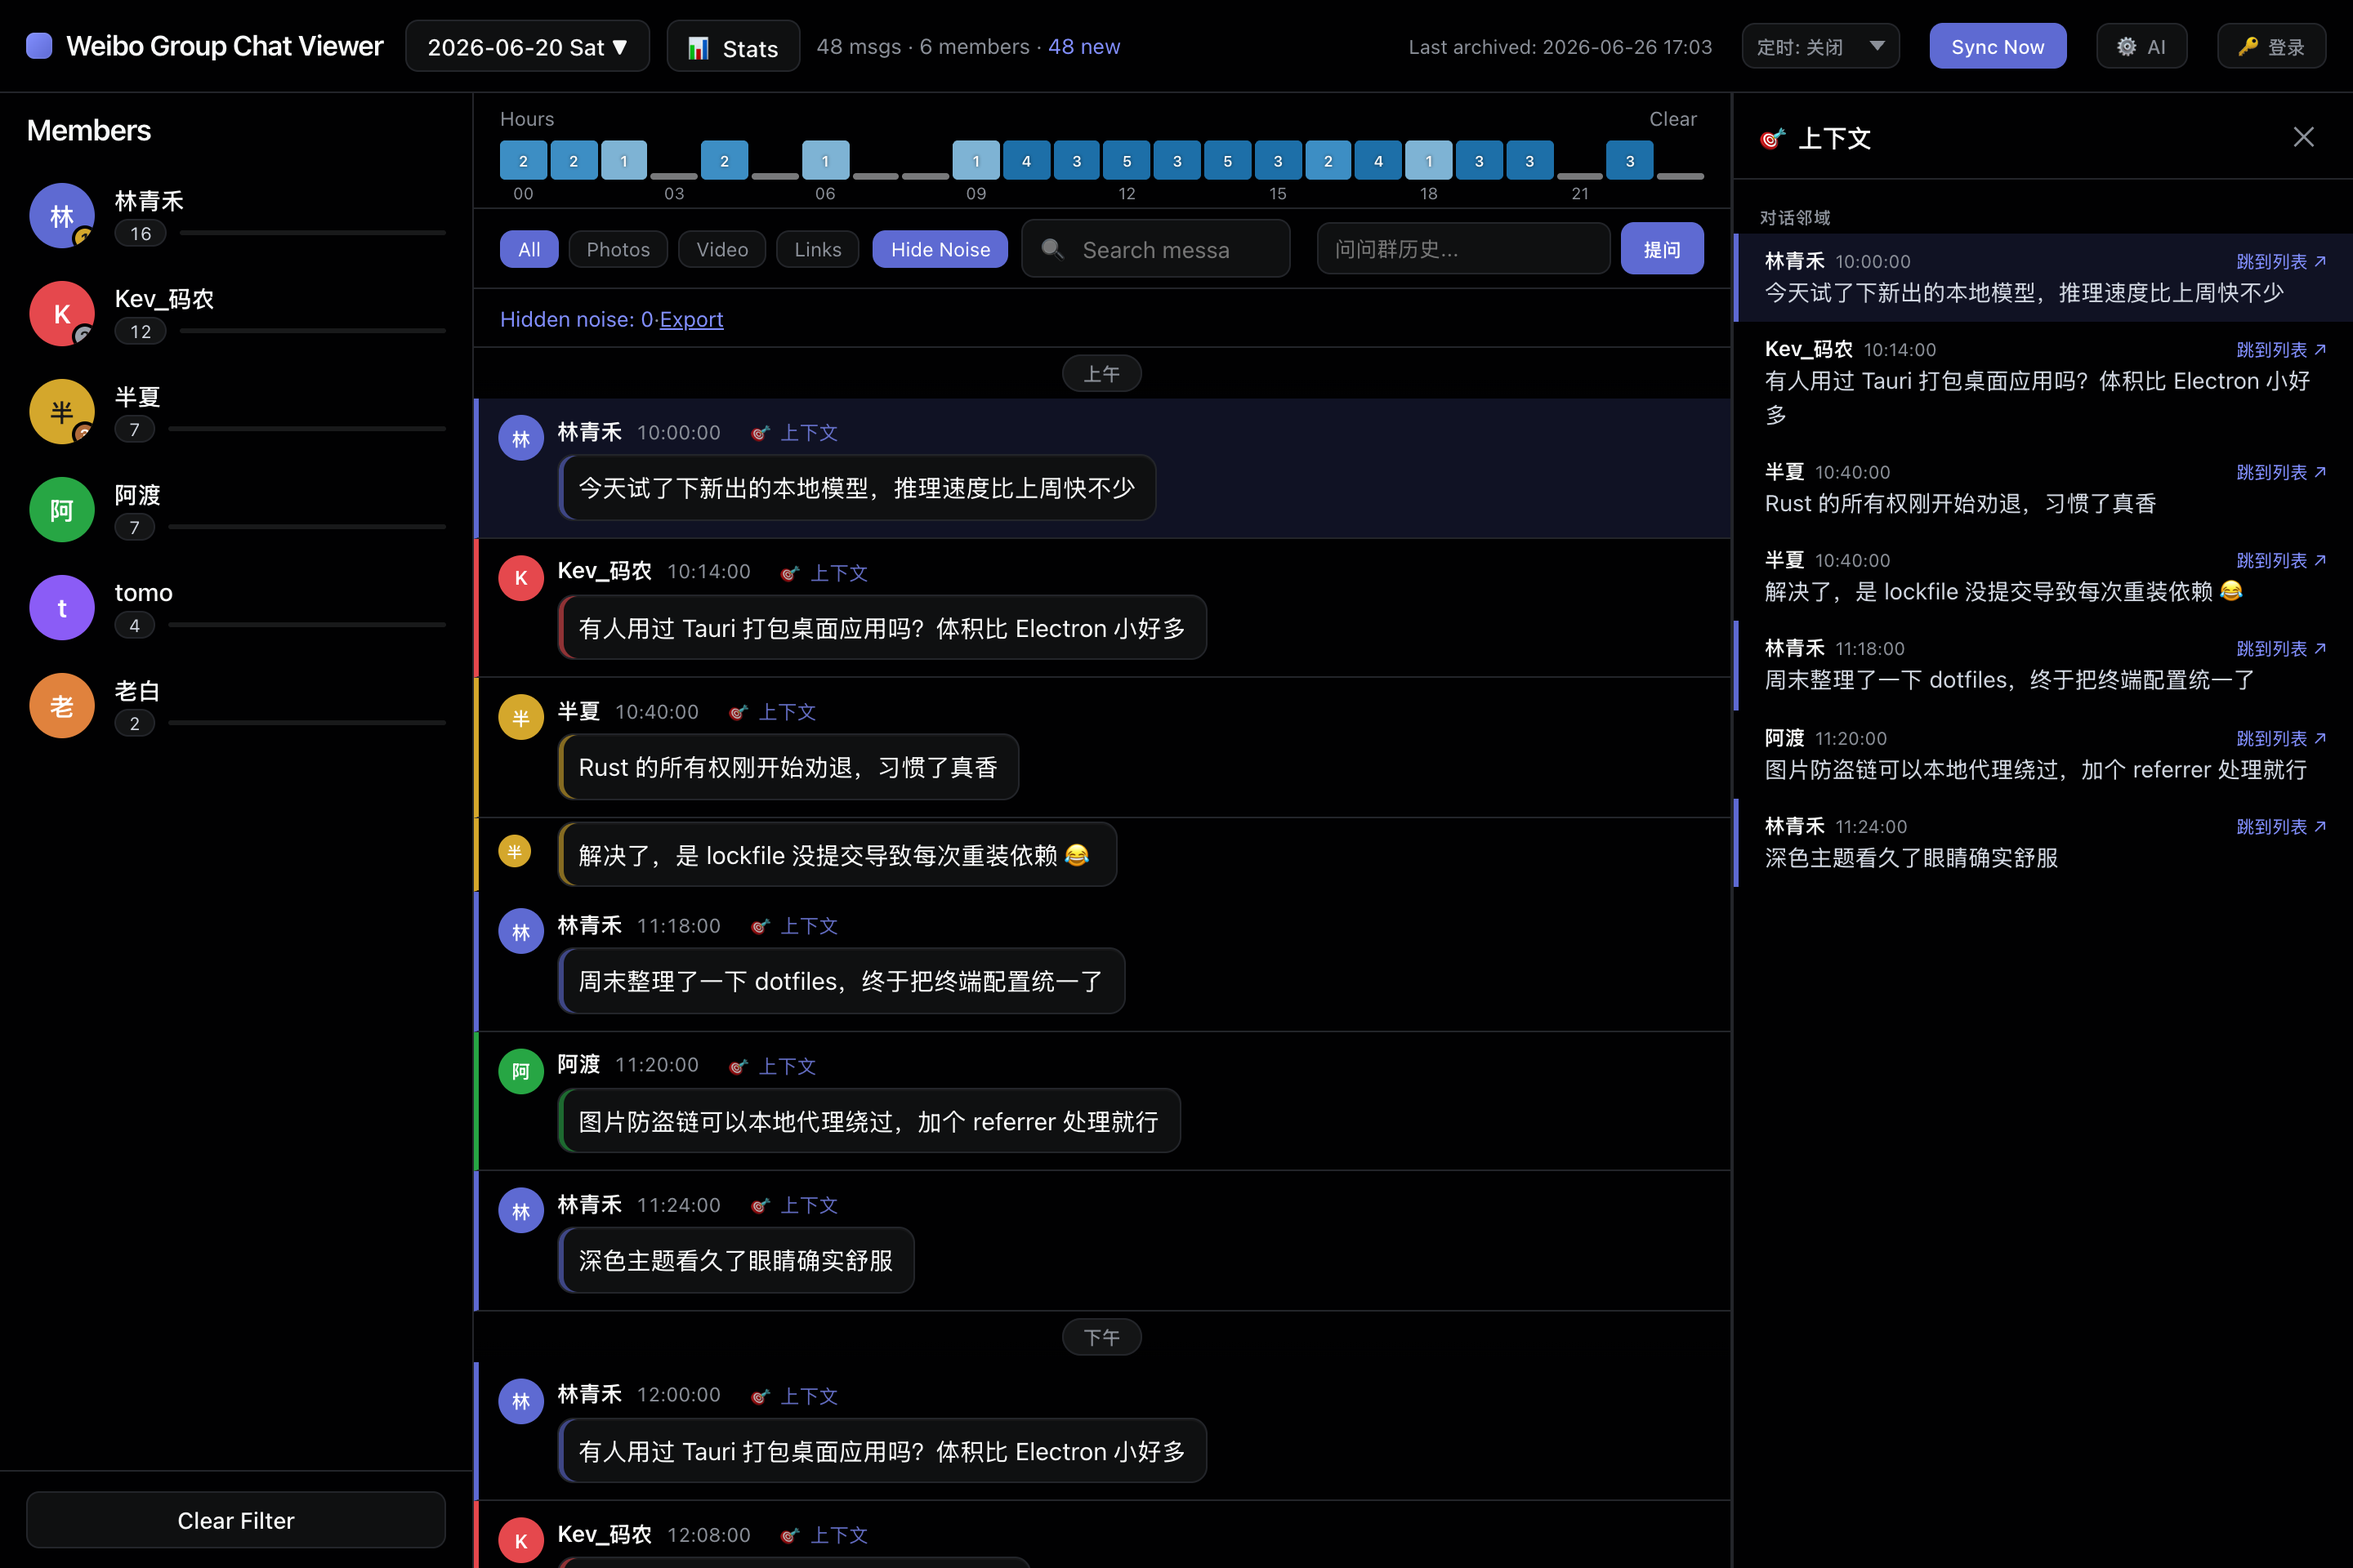
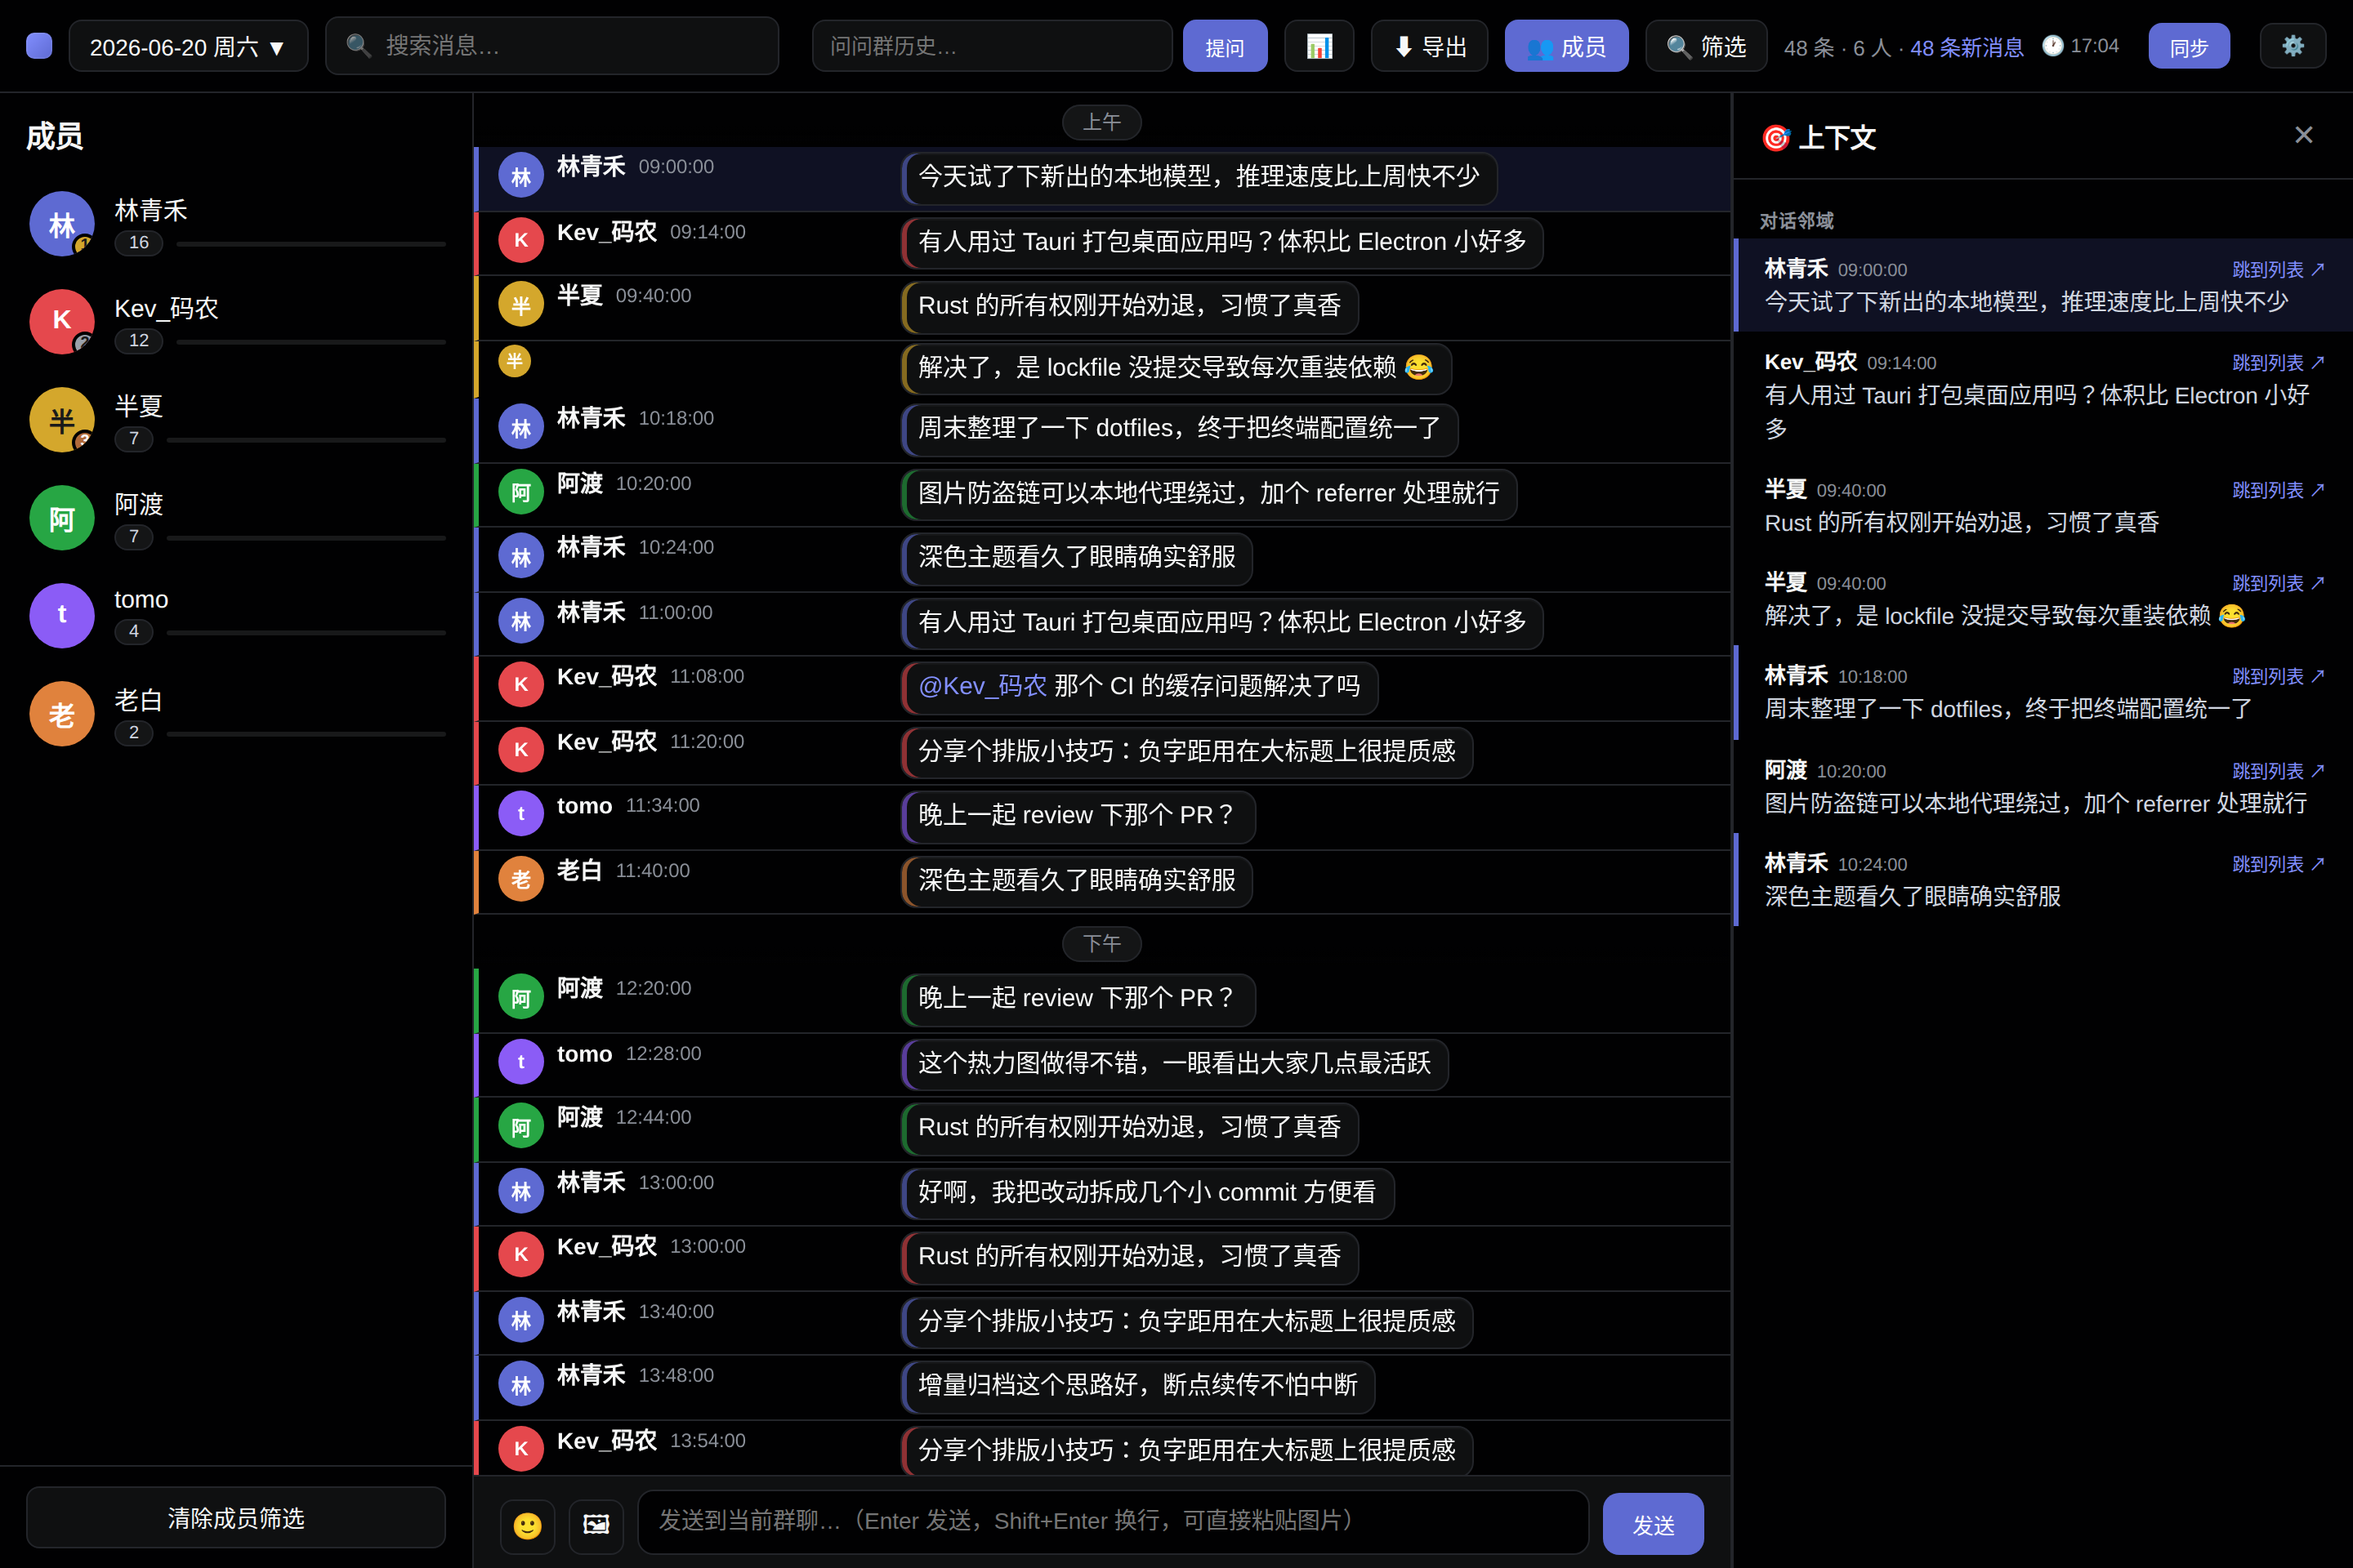
docs: 重录演示截图与 demo.gif,对齐 09-08 布局改动
- 截图/GIF 反映可折叠成员侧栏(ecbd97a/PR#39)与减半行高后的界面
- 修 gen-demo-gif.js 过期选择器:上下文入口已从常驻 .msg-ctx-link 改为
  hover 的 .msg-ctx-btn,只点旧选择器时 GIF 的上下文面板场景静默失效
- 演示数据补 state 文件(groupId)使发送输入框正常显示,不再出现
  「先点同步」提示条;拦截 /api/auth-status 压掉无 cookie 环境的
  「登录已失效」红条(均只在截图进程内,不改产品代码,跑完即清)

diff --git a/docs/gen-demo-gif.js b/docs/gen-demo-gif.js
@@ -48,6 +48,16 @@ for (let i = 0; i < 60; i++) {
 }
 fs.writeFileSync(path.join(GROUP_DIR, `weibo_chat_${day}.json`), JSON.stringify(msgs));
 
+// 与 gen-screenshots 同款演示态：state 里有 groupId，发送输入框才不会
+// 降级成「先点同步」提示条；跑完即删，不碰任何真实状态
+const STATE_FILE = path.join(__dirname, '..', 'state', `last-archive-state_${GROUP}.json`);
+fs.mkdirSync(path.dirname(STATE_FILE), { recursive: true });
+fs.writeFileSync(STATE_FILE, JSON.stringify({ groupId: '999999', lastTimestamp: base }));
+const cleanup = () => {
+    try { fs.unlinkSync(STATE_FILE); } catch {}
+    fs.rmSync(TMP, { recursive: true, force: true });
+};
+
 const PORT = 3998;
 const srv = execFile('node', [path.join(__dirname, '..', 'scripts', 'viewer-server.js')], {
     env: { ...process.env, WEIBO_OUTPUT_DIR: TMP, WEIBO_PORT: String(PORT) },
@@ -66,6 +76,18 @@ const sleep = ms => new Promise(r => setTimeout(r, ms));
         defaultViewport: { width: 1280, height: 800, deviceScaleFactor: 1 },
     });
     const page = await browser.newPage();
+    // 演示环境没有 cookie：拦截 /api/auth-status 压掉「登录已失效」横幅
+    await page.setRequestInterception(true);
+    page.on('request', (req) => {
+        if (req.url().includes('/api/auth-status')) {
+            req.respond({
+                contentType: 'application/json',
+                body: JSON.stringify({ ok: true, code: 0, checkedAt: Date.now() }),
+            });
+        } else {
+            req.continue();
+        }
+    });
     await page.goto(`http://localhost:${PORT}`, { waitUntil: 'networkidle2', timeout: 30000 });
     await page.waitForSelector('.msg-item', { timeout: 15000 });
     await sleep(1200);
@@ -84,7 +106,11 @@ const sleep = ms => new Promise(r => setTimeout(r, ms));
     }
     await hold(3);
     // 场景3：打开上下文面板
-    await page.evaluate(() => { document.querySelector('.msg-ctx-link')?.click(); });
+    // 入口在 ecbd97a 从常驻 .msg-ctx-link 改成 hover 的 .msg-ctx-btn，
+    // 只点旧 selector 会让这个场景静默跳过
+    await page.evaluate(() => {
+        document.querySelector('.msg-ctx-btn')?.click();
+    });
     await sleep(350);
     await hold(8);
     // 关闭上下文
@@ -112,8 +138,8 @@ const sleep = ms => new Promise(r => setTimeout(r, ms));
         '-o', out, path.join(FRAMES, 'f*.png'),
     ], { stdio: 'inherit', shell: true });
 
-    fs.rmSync(TMP, { recursive: true, force: true });
+    cleanup();
     const kb = (fs.statSync(out).size / 1024).toFixed(0);
     console.log(`[gif] done: ${out} (${kb} KB)`);
     process.exit(0);
-})().catch(e => { console.error(e); srv.kill(); fs.rmSync(TMP, { recursive: true, force: true }); process.exit(1); });
+})().catch(e => { console.error(e); srv.kill(); cleanup(); process.exit(1); });

diff --git a/docs/gen-screenshots.js b/docs/gen-screenshots.js
@@ -63,6 +63,17 @@ for (let i = 0; i < 48; i++) {
 fs.writeFileSync(path.join(GROUP_DIR, `weibo_chat_${day}.json`), JSON.stringify(msgs, null, 2));
 console.log('[demo] wrote', msgs.length, 'fake messages to', GROUP_DIR);
 
+// 演示环境需要"看起来已归档过"的状态文件：resolveLiveGroups 要求 state 里有
+// groupId，否则发送输入框会降级成「先点同步」提示条（README 截图不该有它）。
+// state 目录固定在仓库根，文件名含演示群名，跑完即删，不碰任何真实状态。
+const STATE_FILE = path.join(__dirname, '..', 'state', `last-archive-state_${GROUP}.json`);
+fs.mkdirSync(path.dirname(STATE_FILE), { recursive: true });
+fs.writeFileSync(STATE_FILE, JSON.stringify({ groupId: '999999', lastTimestamp: base }));
+const cleanup = () => {
+    try { fs.unlinkSync(STATE_FILE); } catch {}
+    fs.rmSync(TMP, { recursive: true, force: true });
+};
+
 // 启动一个临时服务器实例（独立端口 + 指向假数据目录）
 const PORT = 3999;
 const srv = execFile('node', [path.join(__dirname, '..', 'scripts', 'viewer-server.js')], {
@@ -82,6 +93,19 @@ srv.stderr.on('data', d => process.stderr.write('[srv:err] ' + d));
         defaultViewport: { width: 1440, height: 960, deviceScaleFactor: 2 },
     });
     const page = await browser.newPage();
+    // 演示环境没有 cookie，/api/auth-status 会回 ok:false → 顶部出红色
+    // 「登录已失效」横幅。只在截图进程内拦截该请求回 ok:true，不动产品代码。
+    await page.setRequestInterception(true);
+    page.on('request', (req) => {
+        if (req.url().includes('/api/auth-status')) {
+            req.respond({
+                contentType: 'application/json',
+                body: JSON.stringify({ ok: true, code: 0, checkedAt: Date.now() }),
+            });
+        } else {
+            req.continue();
+        }
+    });
     const url = `http://localhost:${PORT}`;
     await page.goto(url, { waitUntil: 'networkidle2', timeout: 30000 });
     await page.waitForSelector('.msg-item', { timeout: 15000 });
@@ -110,7 +134,7 @@ srv.stderr.on('data', d => process.stderr.write('[srv:err] ' + d));
 
     await browser.close();
     srv.kill();
-    fs.rmSync(TMP, { recursive: true, force: true });
+    cleanup();
     console.log('[demo] cleaned up', TMP);
     process.exit(0);
-})().catch(e => { console.error(e); srv.kill(); fs.rmSync(TMP, { recursive: true, force: true }); process.exit(1); });
+})().catch(e => { console.error(e); srv.kill(); cleanup(); process.exit(1); });
